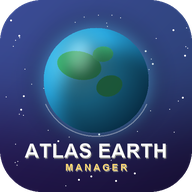
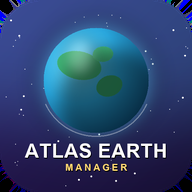
Retire les sections Tendance et Historique, corrige les icones PWA
- Supprime l'affichage des graphiques de tendance (parcelles/dollars dans le temps)
- Supprime l'affichage de l'historique des entrees journalieres
- Reconstruit les coins transparents des icones 192/512 en carre plein
  pour eviter le lisere blanc quand l'OS applique son propre masque d'icone

diff --git a/index.html b/index.html
@@ -193,37 +193,9 @@
   .status-chip .l{font-size:10.5px; text-transform:uppercase; letter-spacing:.05em; color:var(--ink-muted); margin-bottom:4px;}
   .status-chip .v{font-family:ui-monospace,monospace; font-size:17px; font-weight:700; font-variant-numeric:tabular-nums;}
 
-  /* Trend charts */
-  .trend-grid{display:grid; grid-template-columns:1fr 1fr; gap:16px;}
-  @media (max-width:560px){.trend-grid{grid-template-columns:1fr;}}
-  .trend-box{border:1px solid var(--line); border-radius:9px; padding:14px;}
-  .trend-box .tt{font-size:12px; font-weight:700; color:var(--ink-muted); margin-bottom:8px;}
-  .trend-box svg{width:100%; height:80px; display:block;}
-  .trend-box .lastval{font-family:ui-monospace,monospace; font-size:13px; margin-top:6px; color:var(--ink-muted);}
-  .trend-box .lastval b{color:var(--ink); font-size:15px;}
 
-  /* History table */
-  .table-wrap{overflow-x:auto; border:1px solid var(--line); border-radius:9px;}
-  table.hist{width:100%; border-collapse:collapse; font-size:13px; font-variant-numeric:tabular-nums; min-width:640px;}
-  table.hist thead th{
-    text-align:right; font-size:10.5px; text-transform:uppercase; letter-spacing:.04em; color:var(--ink-muted);
-    font-weight:600; padding:9px 12px; border-bottom:1px solid var(--line-strong); background:var(--surface-2); white-space:nowrap;
-  }
-  table.hist thead th:first-child{text-align:left;}
-  table.hist tbody td{
-    padding:8px 12px; text-align:right; border-bottom:1px solid var(--line);
-    font-family:ui-monospace,"Cascadia Code","SF Mono",Consolas,monospace; white-space:nowrap;
-  }
-  table.hist tbody td:first-child{text-align:left; font-family:-apple-system,sans-serif; font-weight:600;}
-  table.hist tbody tr:nth-child(even){background:var(--surface-2);}
   .delta-pos{color:var(--positive);}
   .delta-neg{color:var(--negative);}
-  .del-btn{
-    background:transparent; border:1px solid var(--line); border-radius:5px; color:var(--ink-muted);
-    font-size:11px; padding:3px 7px; cursor:pointer; font-family:inherit;
-  }
-  .del-btn:hover{color:var(--negative); border-color:var(--negative);}
-  .empty-hint{color:var(--ink-muted); font-size:13.5px; padding:6px 2px;}
 
   /* Tier table */
   .tier-grid{display:grid; grid-template-columns:repeat(5,1fr); gap:6px;}
@@ -333,27 +305,6 @@
   <div id="verdictCard"></div>
 
   <div class="card">
-    <h2 class="ct">Tendance</h2>
-    <div class="trend-grid">
-      <div class="trend-box">
-        <div class="tt">Parcelles dans le temps</div>
-        <svg id="chartParcels" viewBox="0 0 300 80" preserveAspectRatio="none"></svg>
-        <div class="lastval" id="lastParcels"></div>
-      </div>
-      <div class="trend-box">
-        <div class="tt">Dollars générés dans le temps</div>
-        <svg id="chartDollars" viewBox="0 0 300 80" preserveAspectRatio="none"></svg>
-        <div class="lastval" id="lastDollars"></div>
-      </div>
-    </div>
-  </div>
-
-  <div class="card">
-    <h2 class="ct">Historique</h2>
-    <div id="histWrap"></div>
-  </div>
-
-  <div class="card">
     <h2 class="ct">Tous les paliers</h2>
     <div class="tier-grid" id="tierGrid"></div>
   </div>
@@ -413,7 +364,7 @@ const els = {};
   "hours","hoursVal","badge","todayDate",
   "rCommon","rRare","rEpic","rLegendary","totalParcels","baseRateDisplay","baseRatePerSec","boostedIncomeDisplay",
   "inAB","inDollars","deltaRow","saveBtn","loadLastBtn","saveNote",
-  "verdictCard","chartParcels","chartDollars","lastParcels","lastDollars","histWrap","tierGrid"
+  "verdictCard","tierGrid"
 ].forEach(id => els[id] = document.getElementById(id));
 
 // ---- init settings ----
@@ -533,74 +484,6 @@ function renderDeltaPreview(){
   els.deltaRow.innerHTML = "depuis le "+last.date+" : " + chip("parcelles",dP,false) + chip("AB",dA,false) + chip("$",dD,true);
 }
 
-function renderHistory(){
-  const log = loadLog();
-  if(log.length===0){
-    els.histWrap.innerHTML = '<p class="empty-hint">Aucune entrée enregistrée pour l’instant — remplis "Entrée du jour" ci-dessus et clique sur Enregistrer.</p>';
-    return;
-  }
-  const rows = log.map(function(e,i){
-    const total = e.common+e.rare+e.epic+e.legendary;
-    const prev = i>0 ? log[i-1] : null;
-    const prevTotal = prev ? prev.common+prev.rare+prev.epic+prev.legendary : total;
-    const dP = prev ? total-prevTotal : total;
-    const dA = prev ? e.ab-prev.ab : e.ab;
-    const dD = prev ? e.dollars-prev.dollars : e.dollars;
-    function d(v){ const cls = v>0?"delta-pos":(v<0?"delta-neg":""); const s=v>0?"+":""; return '<span class="'+cls+'">'+s+fmtNum(v)+'</span>'; }
-    return "<tr>"+
-      "<td>"+e.date+"</td>"+
-      "<td>"+fmtNum(total)+"</td>"+
-      "<td>"+d(dP)+"</td>"+
-      "<td>"+fmtNum(e.ab)+"</td>"+
-      "<td>"+d(dA)+"</td>"+
-      "<td>"+fmtEUR(e.dollars)+"</td>"+
-      "<td>"+(dD>=0?"+":"")+fmtEUR(dD)+"</td>"+
-      '<td><button class="del-btn" data-idx="'+i+'">Suppr.</button></td>'+
-    "</tr>";
-  }).join("");
-  els.histWrap.innerHTML = '<div class="table-wrap"><table class="hist">'+
-    "<thead><tr><th>Date</th><th>Parcelles</th><th>Δ</th><th>AB</th><th>Δ</th><th>$ générés</th><th>Δ</th><th></th></tr></thead>"+
-    "<tbody>"+rows+"</tbody></table></div>";
-  els.histWrap.querySelectorAll(".del-btn").forEach(function(btn){
-    btn.addEventListener("click", function(){
-      const idx = parseInt(btn.dataset.idx);
-      const l = loadLog(); l.splice(idx,1); saveLog(l);
-      renderAll();
-    });
-  });
-}
-
-function renderChart(svgEl, points, colorVar){
-  if(points.length===0){ svgEl.innerHTML=""; return; }
-  if(points.length===1){
-    svgEl.innerHTML = '<circle cx="150" cy="40" r="3" fill="var('+colorVar+')"></circle>';
-    return;
-  }
-  const w=300,h=80,pad=6;
-  const min = Math.min.apply(null,points), max = Math.max.apply(null,points);
-  const range = (max-min)||1;
-  const stepX = (w-2*pad)/(points.length-1);
-  const coords = points.map(function(p,i){
-    const x = pad + i*stepX;
-    const y = h-pad - ((p-min)/range)*(h-2*pad);
-    return [x,y];
-  });
-  const line = coords.map(function(c){return c.join(",");}).join(" ");
-  const area = pad+","+(h-pad)+" " + line + " " + (w-pad)+","+(h-pad);
-  svgEl.innerHTML =
-    '<polygon points="'+area+'" fill="var('+colorVar+')" opacity="0.15"></polygon>'+
-    '<polyline points="'+line+'" fill="none" stroke="var('+colorVar+')" stroke-width="2" stroke-linejoin="round" stroke-linecap="round"></polyline>'+
-    '<circle cx="'+coords[coords.length-1][0]+'" cy="'+coords[coords.length-1][1]+'" r="3.2" fill="var('+colorVar+')"></circle>';
-}
-
-function renderTrends(){
-  const log = loadLog();
-  renderChart(els.chartParcels, log.map(function(e){return e.common+e.rare+e.epic+e.legendary;}), "--accent");
-  renderChart(els.chartDollars, log.map(function(e){return e.dollars;}), "--positive");
-  els.lastParcels.innerHTML = log.length ? ("Dernier : <b>"+fmtNum(log[log.length-1].common+log[log.length-1].rare+log[log.length-1].epic+log[log.length-1].legendary)+"</b> tuiles") : "Pas encore de données";
-  els.lastDollars.innerHTML = log.length ? ("Dernier : <b>"+fmtEUR(log[log.length-1].dollars)+"</b>") : "Pas encore de données";
-}
-
 function renderTierGrid(){
   const c = getComposition();
   const i0 = getTierIndex(Math.max(1,totalOf(c)));
@@ -615,8 +498,6 @@ function renderAll(){
   renderSummary();
   renderVerdict();
   renderDeltaPreview();
-  renderHistory();
-  renderTrends();
   renderTierGrid();
 }
 
